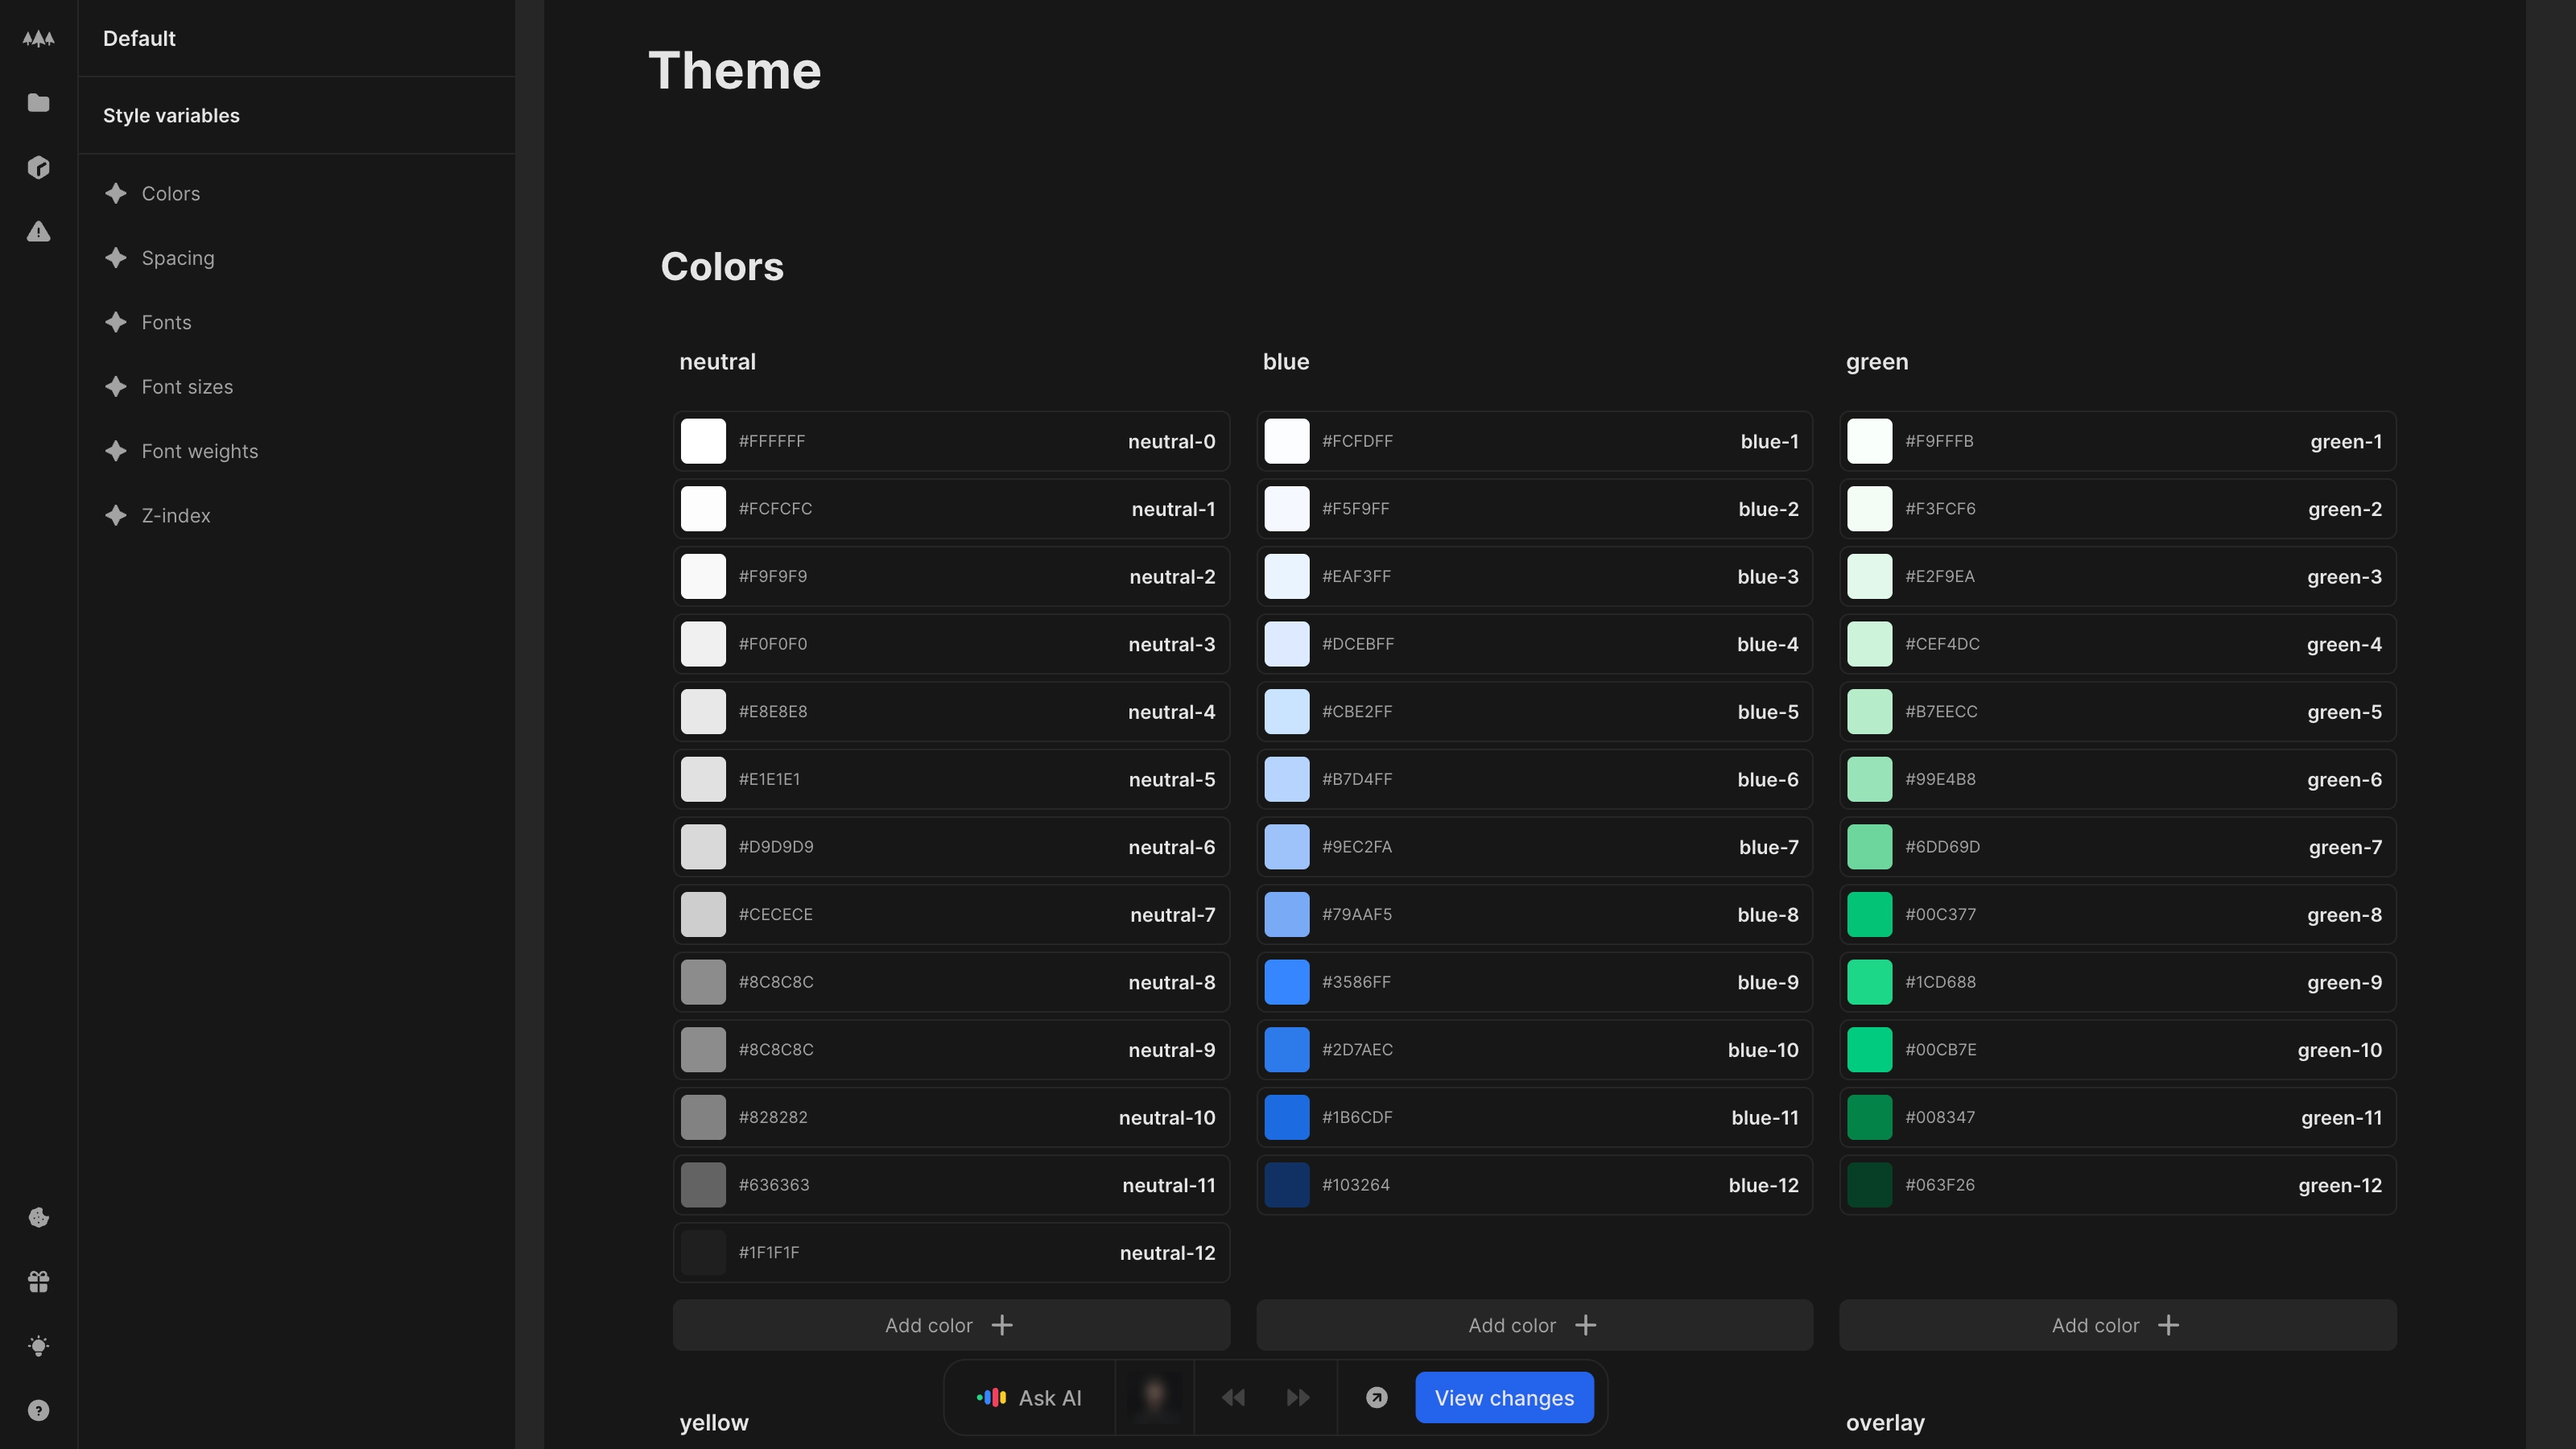
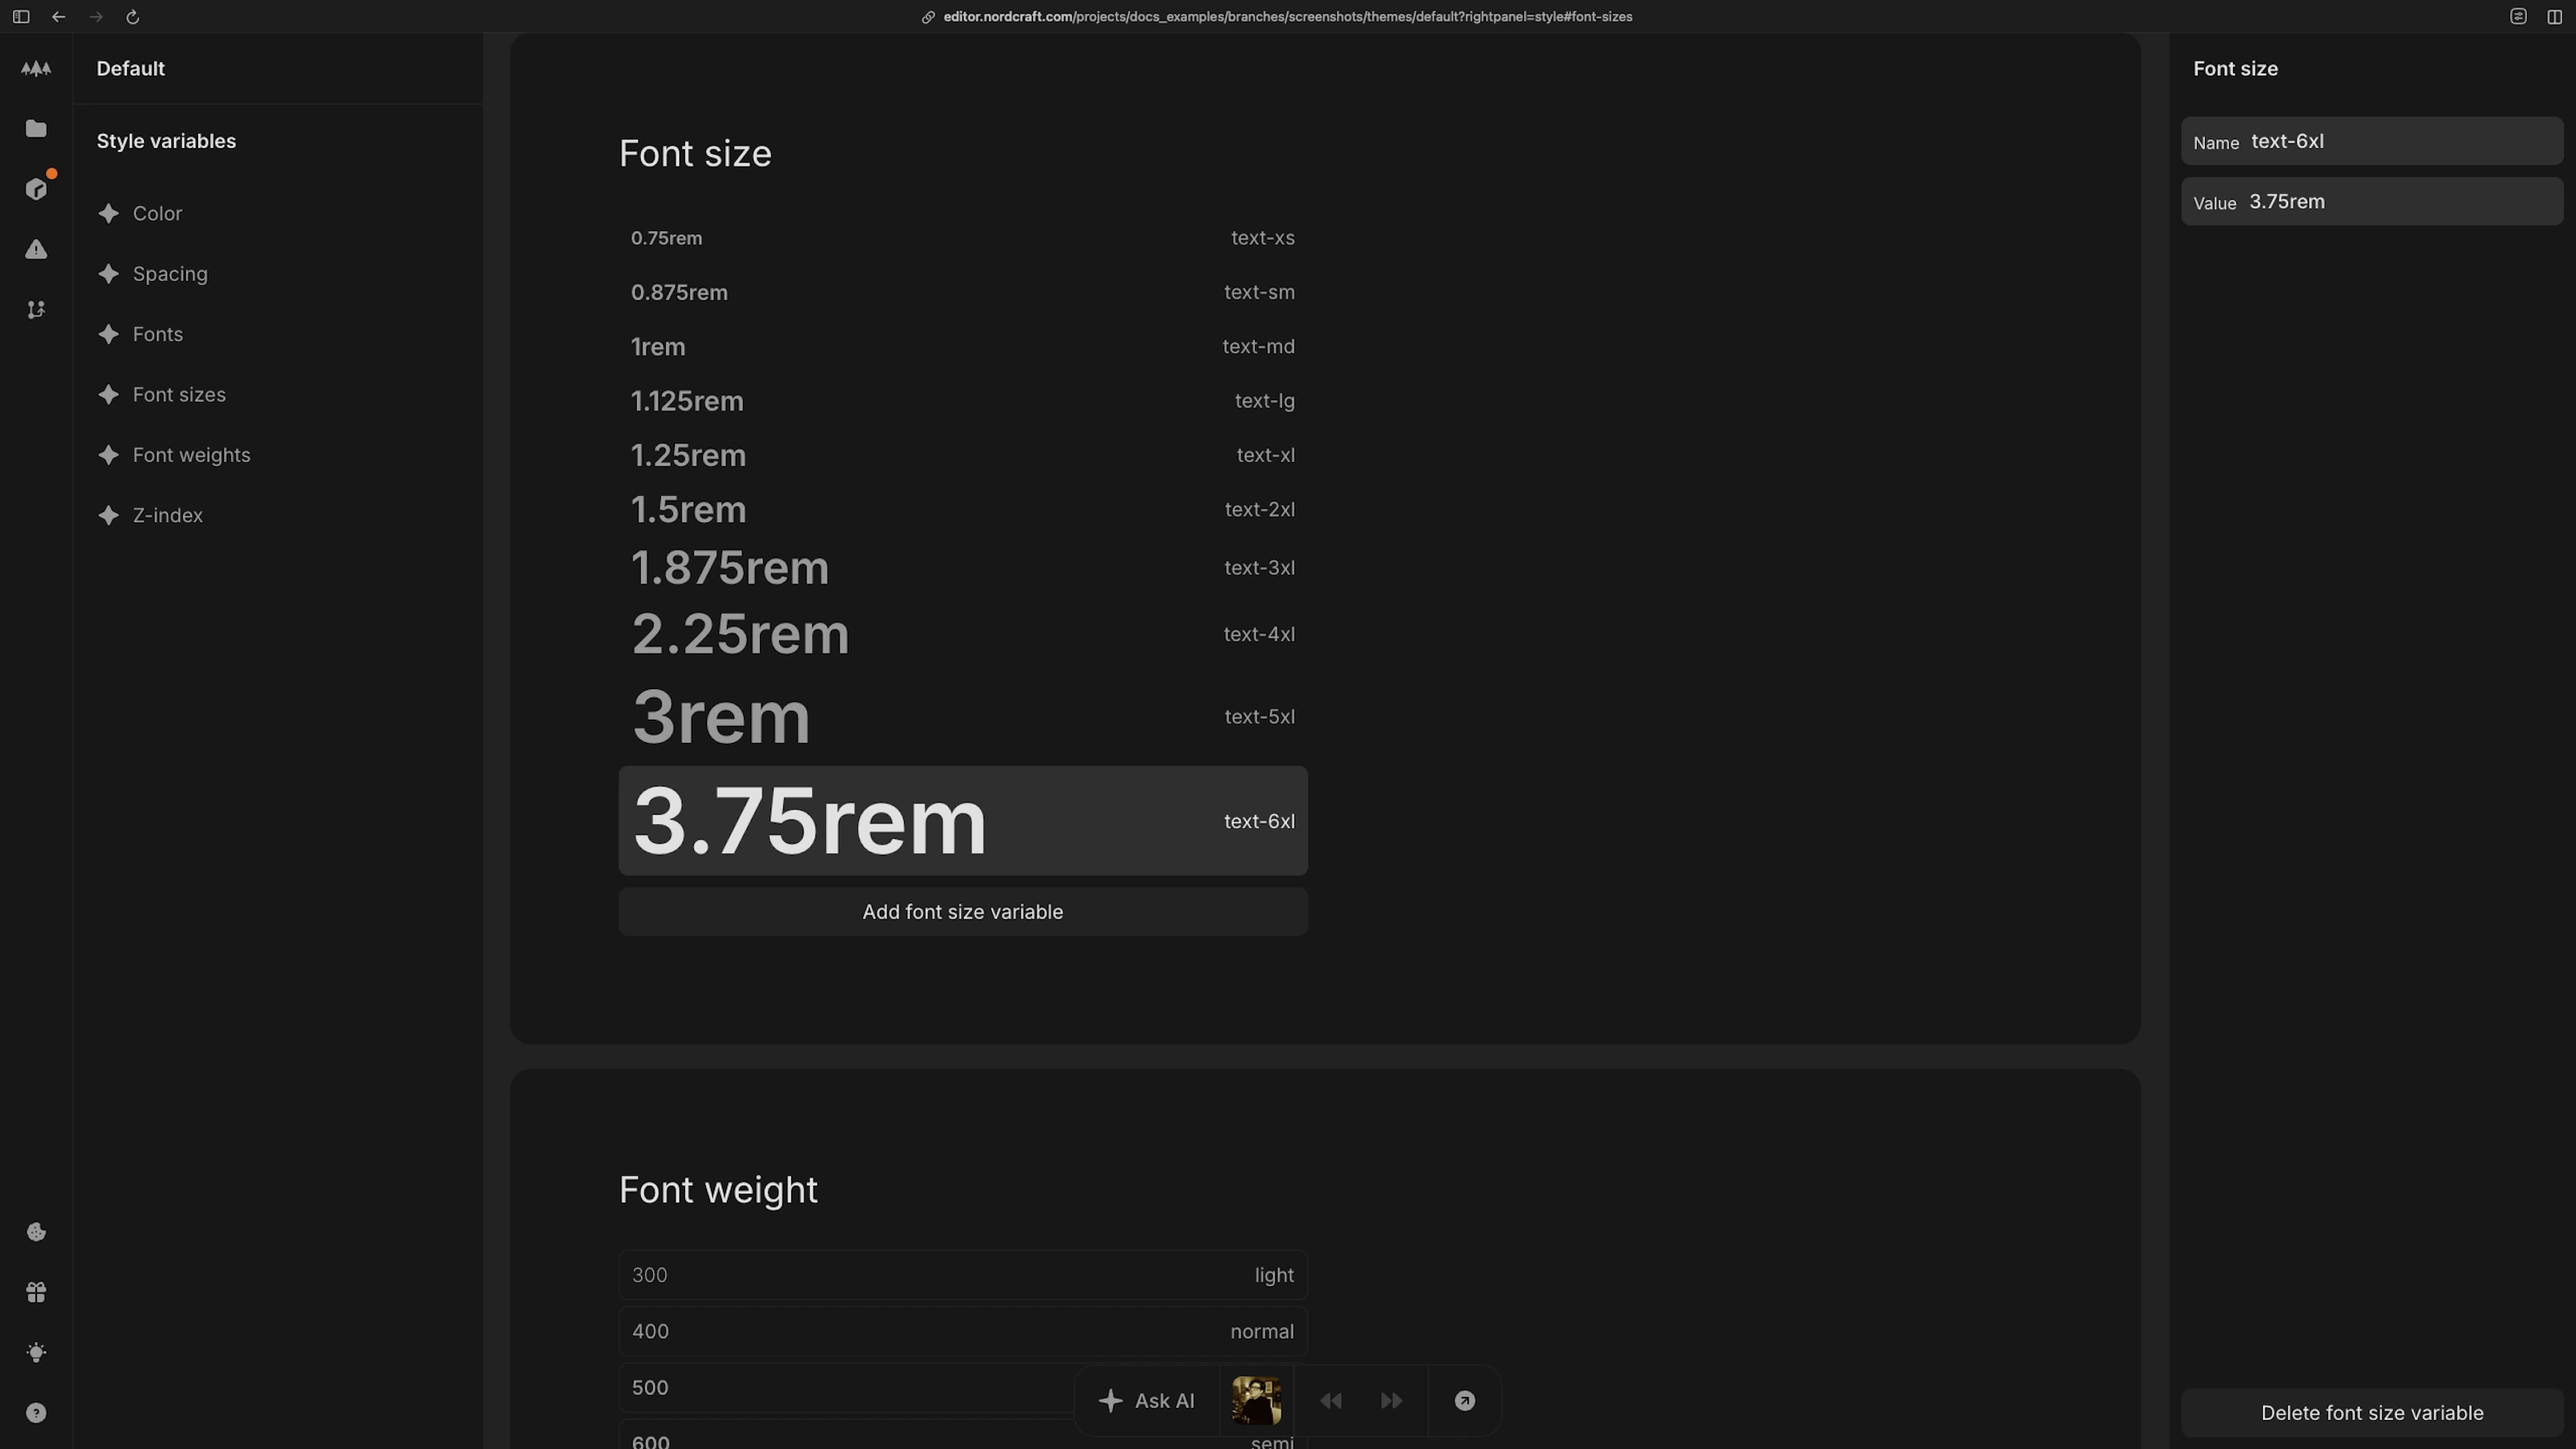
Mention design systems (#406)
* Update theme to mention design systems

* Add new theme image

diff --git a/docs/styling/theme/index.md b/docs/styling/theme/index.md
@@ -5,11 +5,11 @@ description: Create design systems with Nordcraft's theme tools for managing col
 
 # Theme
 
-The theme system in Nordcraft provides a centralized way to manage design tokens across your entire project. By defining colors, spacing, typography and other visual elements in one place, you can ensure consistent styling throughout your application. Theme variables are available to use in the [style panel](/the-editor/element-panel#style-panel).
+The theme system in Nordcraft provides a centralized way to manage design tokens across your entire project. By defining colors, spacing, typography and other visual elements in one place, you can ensure consistent styling throughout your application. All theme variables are available to use in the [style panel](/the-editor/element-panel#style-panel).
 
 To access the theme editor, open the [project sidebar](/the-editor/project-sidebar#project-sidebar) and find the `Themes` section.
 
-![The Nordcraft theme editor. On the left are the following selectable categories: colors, spacing, fonts, font sizes, font weights, z-index. On the central canvas, a color palette of neutral grey colors, blues and greens are visible, defined as names that map to hex values. A preview of each color is shown as a rounded square.|16/9](theme.webp 'Theme'){https://editor.nordcraft.com/projects/docs_examples/branches/main/themes/Default?canvas-width=800&canvas-height=800&rightpanel=style}
+![The Nordcraft theme editor. On the left are the following selectable categories: colors, spacing, fonts, font sizes, font weights, z-index. On the central canvas, a list of font size theme variables are displayed in their corresponding size. On the right, a panel is open where you can edit the name and value of the theme variable, and delete it using a button at the bottom of the panel.|16/9](theme.webp 'Theme'){https://editor.nordcraft.com/projects/docs_examples/branches/main/themes/Default?canvas-width=800&canvas-height=800&rightpanel=style}
 
 ## Colors
 
@@ -79,3 +79,7 @@ All theme variables are available throughout your project:
 - Use variables in formulas to create dynamic styling based on your theme
 
 This approach ensures that changes to the theme automatically propagate throughout your application, maintaining design consistency with minimal effort.
+
+:::tip
+Using Nordcraft's theme system to define your design tokens in combination with creating reusable [components](/components/overview) enables you to build out a robust design system for your project. With this approach, there is one source of truth for your design system. When a designer makes an update, the work doesn't need to be done twice.
+:::
